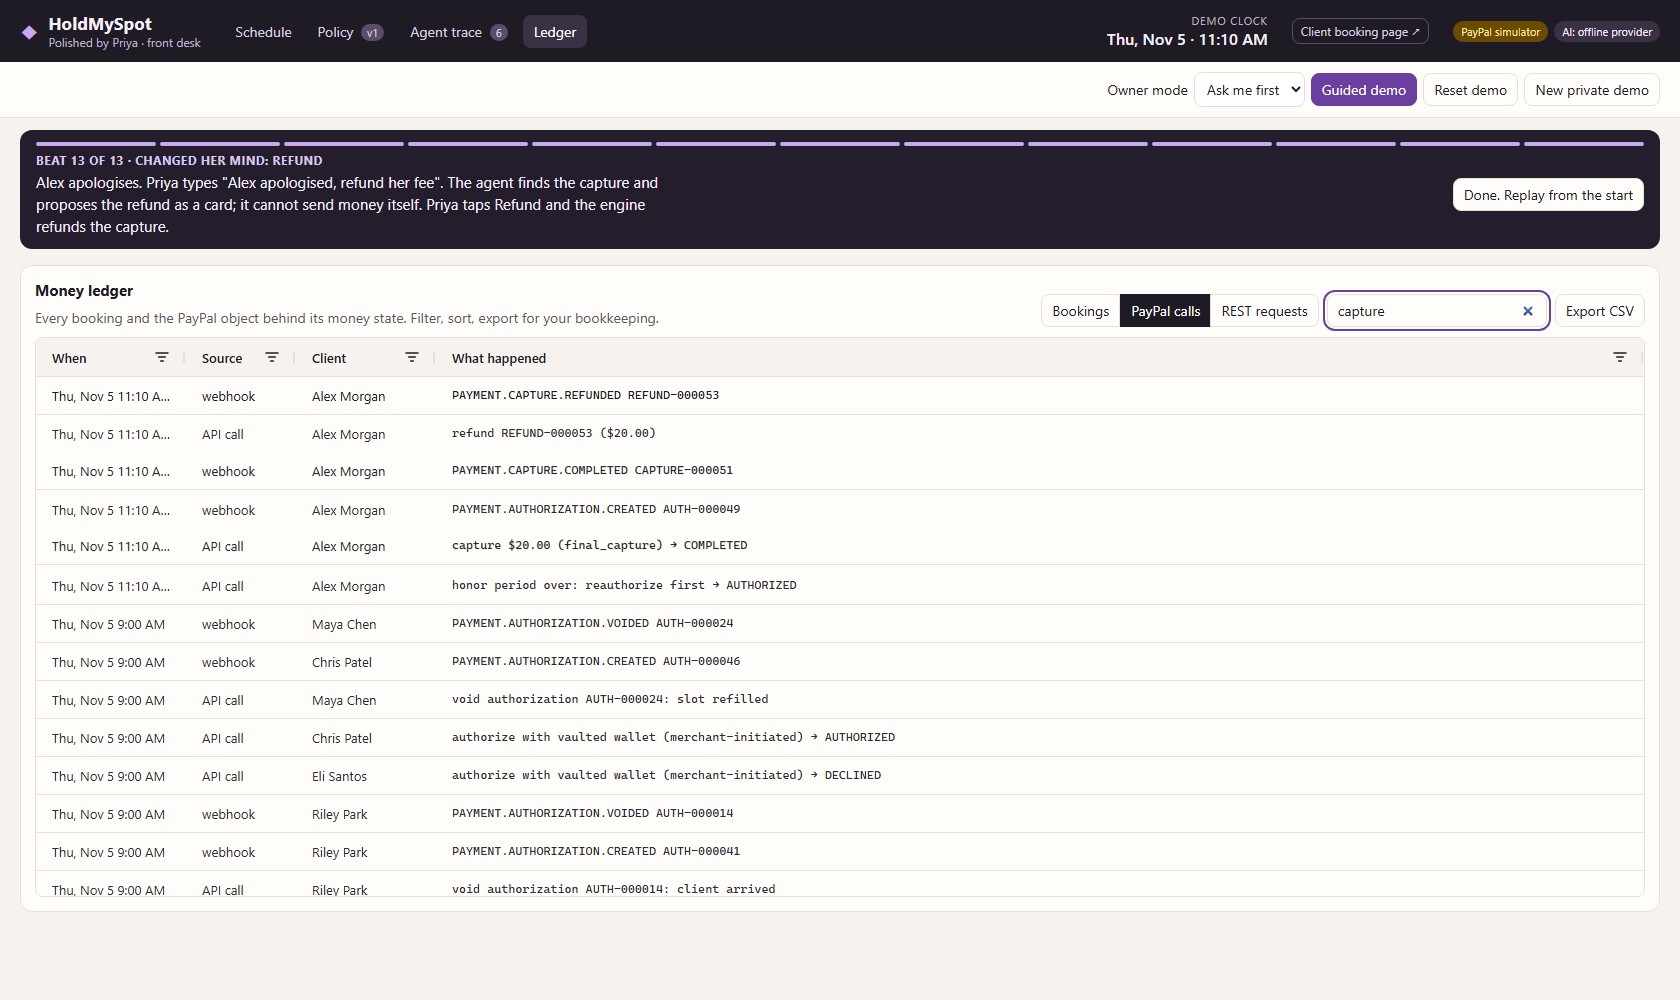
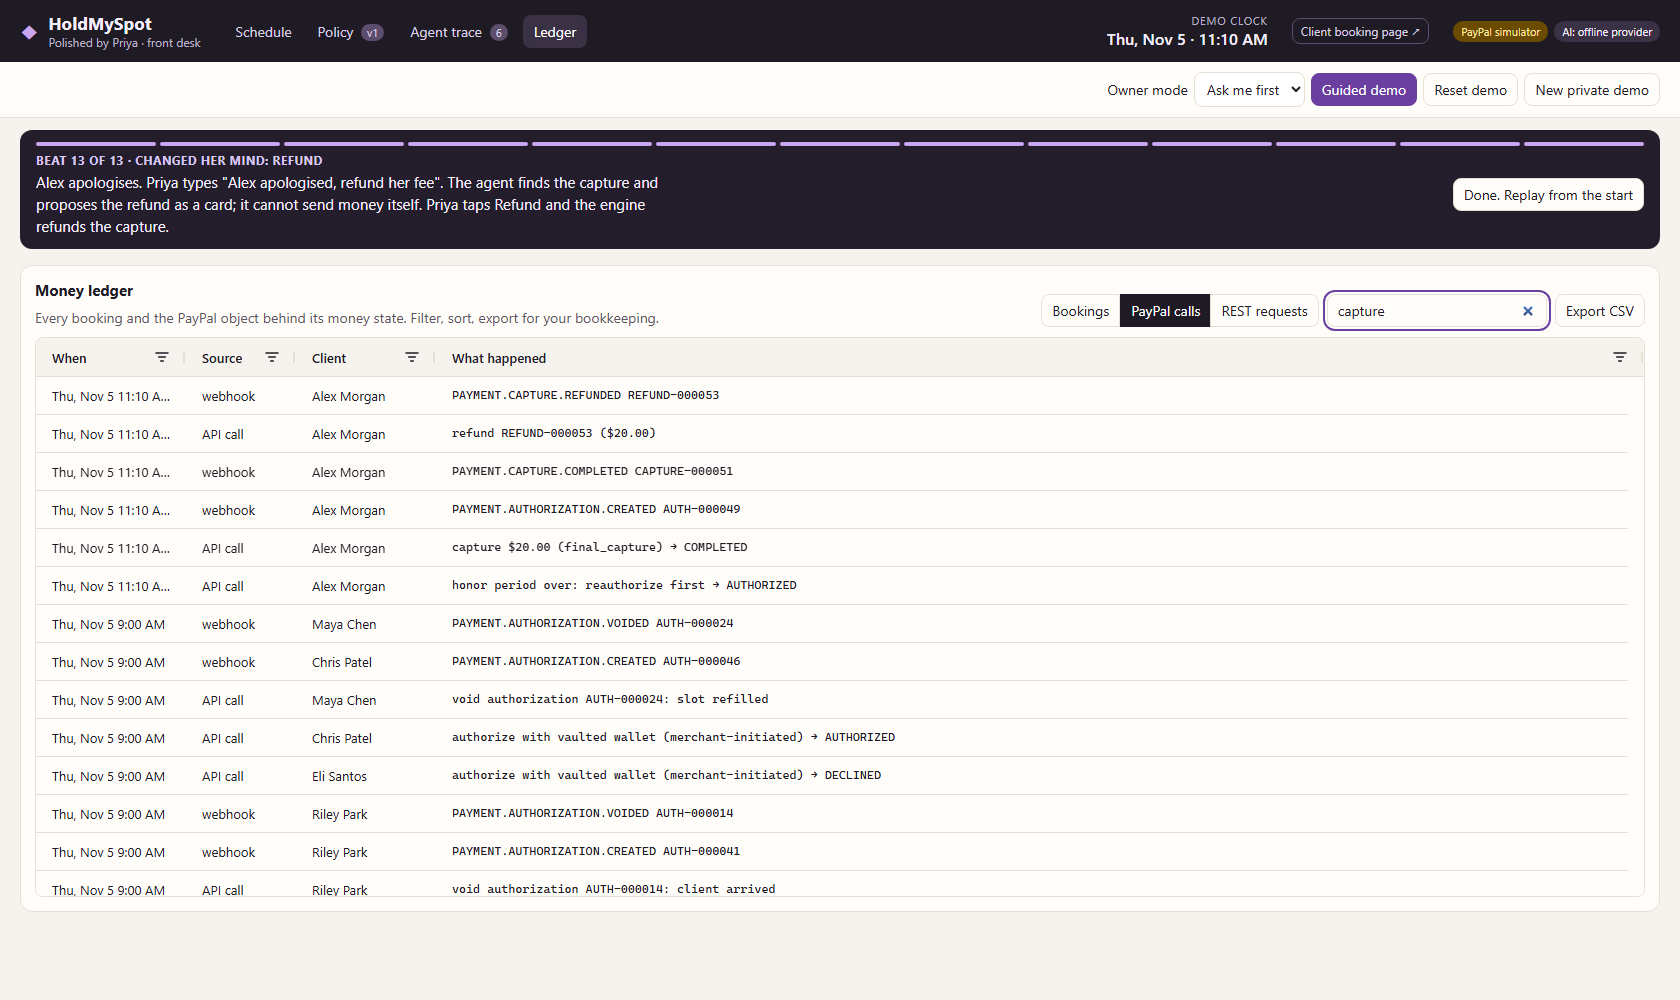
Ledger: AG Grid column groups (Money, PayPal objects behind it), column widths; screenshots; notes

diff --git a/web/src/Ledger.tsx b/web/src/Ledger.tsx
@@ -2,6 +2,7 @@ import {
   CellStyleModule,
   ClientSideRowModelModule,
   type ColDef,
+  type ColGroupDef,
   CsvExportModule,
   type GridApi,
   ModuleRegistry,
@@ -83,7 +84,7 @@ function toRow(b: BookingView, s: Snapshot): Row {
     authorizationId: b.authorizationId ?? '',
     captureId: b.captureId ?? '',
     refundId: b.refundId ?? '',
-    policy: `v${b.policyVersion} · ${b.policyHash.slice(0, 8)}`,
+    policy: `v${b.policyVersion} · ${b.policyHash.slice(0, 6)}`,
     refill: b.refilledByBookingId ? `refilled by ${name(b.refilledByBookingId)}` : b.refillOfBookingId ? `refill of ${name(b.refillOfBookingId)}` : '',
   };
 }
@@ -174,28 +175,38 @@ export function Ledger({ s, api, onSelect }: { s: Snapshot; api: Api; onSelect: 
     [rows],
   );
 
-  const cols = useMemo<ColDef<Row>[]>(
+  const cols = useMemo<(ColDef<Row> | ColGroupDef<Row>)[]>(
     () => [
-      { field: 'start', headerName: 'When', minWidth: 143, flex: 1, sort: 'asc', valueFormatter: (p) => (p.value ? `${fmtDay(p.value)} ${fmtTime(p.value)}` : ''), filter: false },
       { field: 'client', headerName: 'Client', minWidth: 122, flex: 1, pinned: 'left' },
-      { field: 'service', headerName: 'Service', width: 130 },
+      { field: 'start', headerName: 'When', minWidth: 172, flex: 1, sort: 'asc', valueFormatter: (p) => (p.value ? `${fmtDay(p.value)} ${fmtTime(p.value)}` : ''), filter: false },
+      { field: 'service', headerName: 'Service', width: 122 },
       {
-        field: 'money',
         headerName: 'Money',
-        minWidth: 106, flex: 1,
-        cellRenderer: (p: { value: string }) => (p.value ? <span className={`chip m-${p.value}`}>{MONEY_TEXT[p.value] ?? p.value}</span> : null),
-        filterValueGetter: (p) => MONEY_TEXT[p.data?.money ?? ''] ?? '',
-        getQuickFilterText: (p) => MONEY_TEXT[p.value] ?? p.value,
+        children: [
+          {
+            field: 'money',
+            headerName: 'State',
+            minWidth: 106, flex: 1,
+            cellRenderer: (p: { value: string }) => (p.value ? <span className={`chip m-${p.value}`}>{MONEY_TEXT[p.value] ?? p.value}</span> : null),
+            filterValueGetter: (p) => MONEY_TEXT[p.data?.money ?? ''] ?? '',
+            getQuickFilterText: (p) => MONEY_TEXT[p.value] ?? p.value,
+          },
+          { field: 'heldCents', headerName: 'Held', minWidth: 80, flex: 1, type: 'rightAligned', valueFormatter: money, filter: 'agNumberColumnFilter' },
+          { field: 'chargedCents', headerName: 'Charged', minWidth: 96, flex: 1, type: 'rightAligned', valueFormatter: money, filter: 'agNumberColumnFilter', cellClassRules: { 'cell-charged': (p) => !!p.value } },
+          { field: 'refundedCents', headerName: 'Refunded', minWidth: 104, flex: 1, type: 'rightAligned', valueFormatter: money, filter: 'agNumberColumnFilter' },
+        ],
       },
-      { field: 'heldCents', headerName: 'Held', minWidth: 73, flex: 1, type: 'rightAligned', valueFormatter: money, filter: 'agNumberColumnFilter' },
-      { field: 'chargedCents', headerName: 'Charged', minWidth: 82, flex: 1, type: 'rightAligned', valueFormatter: money, filter: 'agNumberColumnFilter', cellClassRules: { 'cell-charged': (p) => !!p.value } },
-      { field: 'refundedCents', headerName: 'Refunded', minWidth: 86, flex: 1, type: 'rightAligned', valueFormatter: money, filter: 'agNumberColumnFilter' },
-      { field: 'state', headerName: 'Booking state', width: 150 },
-      { field: 'refill', headerName: 'Refill', width: 160 },
-      { field: 'authorizationId', headerName: 'PayPal authorization', minWidth: 155, flex: 1, cellClass: 'mono' },
-      { field: 'captureId', headerName: 'Capture', minWidth: 122, flex: 1, cellClass: 'mono' },
-      { field: 'refundId', headerName: 'Refund', minWidth: 122, flex: 1, cellClass: 'mono' },
-      { field: 'policy', headerName: 'Policy', minWidth: 106, flex: 1, cellClass: 'mono' },
+      { field: 'state', headerName: 'Booking state', width: 132 },
+      { field: 'refill', headerName: 'Refill', width: 150 },
+      {
+        headerName: 'PayPal objects behind it',
+        children: [
+          { field: 'authorizationId', headerName: 'Authorization', minWidth: 140, flex: 1, cellClass: 'mono' },
+          { field: 'captureId', headerName: 'Capture', minWidth: 148, flex: 1, cellClass: 'mono' },
+          { field: 'refundId', headerName: 'Refund', minWidth: 148, flex: 1, cellClass: 'mono' },
+        ],
+      },
+      { field: 'policy', headerName: 'Policy', minWidth: 112, flex: 1, cellClass: 'mono' },
     ],
     [],
   );

diff --git a/NIGHT_RUN_NOTES.md b/NIGHT_RUN_NOTES.md
@@ -94,7 +94,7 @@ Goal: raise the judged score without keys. An independent read-only "judge" revi
 - Gotcha: switching between `AgGridReact` instances in one JSX slot reuses the component; give each a `key` or a column getter sees the other view's rows.
 
 ### Verified (end of pass 3)
-- `npm test` → 141 passing (19 files), peak ~1.07 GB under memcap. `npm run ui-check` passes (13 beats, agent trace, owner refund via agent, ledger 3 views, 390 px), **axe 0 violations on 14 screens**, peak ~0.92 GB. `npm run build` passes. `npm run eval`: injection money effects 0.
+- `npm test` → 141 passing (17 files), peak ~1.07 GB under memcap. `npm run ui-check` passes (13 beats, agent trace, owner refund via agent, ledger 3 views with AG Grid column groups, 390 px), **axe 0 violations on 14 screens**, peak ~0.92 GB. `npm run build` passes. `npm run eval`: injection money effects 0.
 
 ### Next
 1. Keys (NEEDS_INPUT): PayPal sandbox → `sandbox-smoke.ts`, then record on the real sandbox; Anthropic key → run `npm run eval` with `AI=anthropic` and check the agent_step tool choice live (only tested with injected/fake providers).
